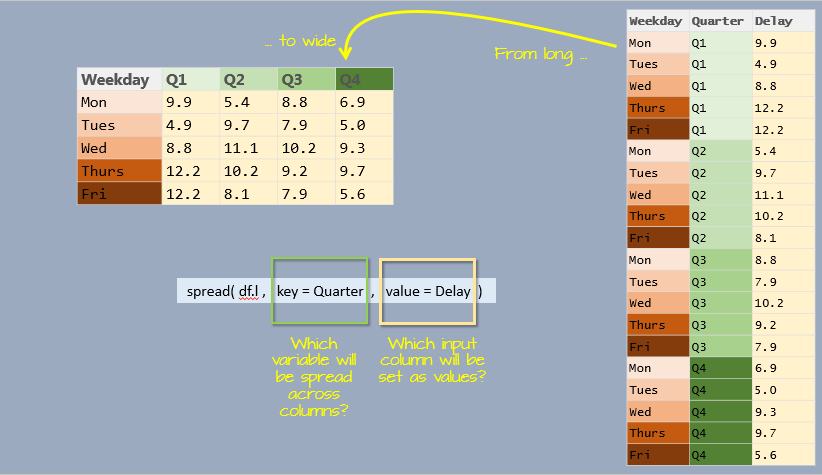
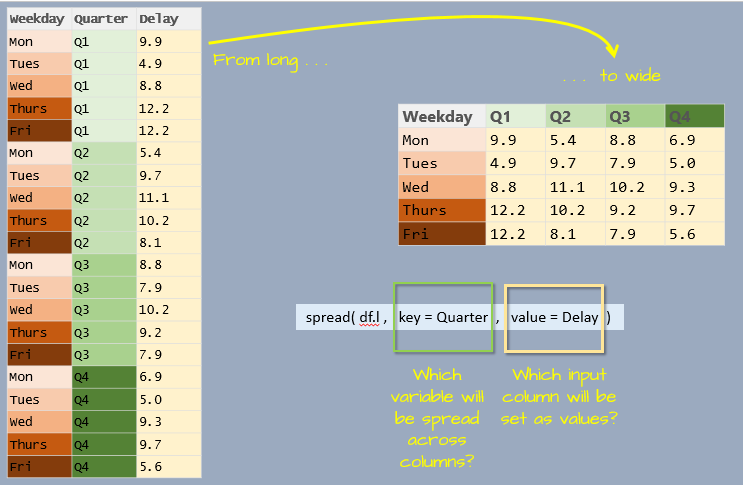
modified long to wide figure png

diff --git a/Week03b.html b/Week03b.html
@@ -533,7 +533,7 @@ df.l &lt;-<span class="st"> </span><span class="kw">gather</span>(df, <span clas
 3   Thurs 12.2 10.2  9.2 9.7
 4    Tues  4.9  9.7  7.9 5.0
 5     Wed  8.8 11.1 10.2 9.3</code></pre>
-<p>The following figure summarizes the wide to long conversion.</p>
+<p>The following figure summarizes the long to wide conversion.</p>
 <div class="figure">
 <img src="img/Tidyr_long2wide.png" />
 
